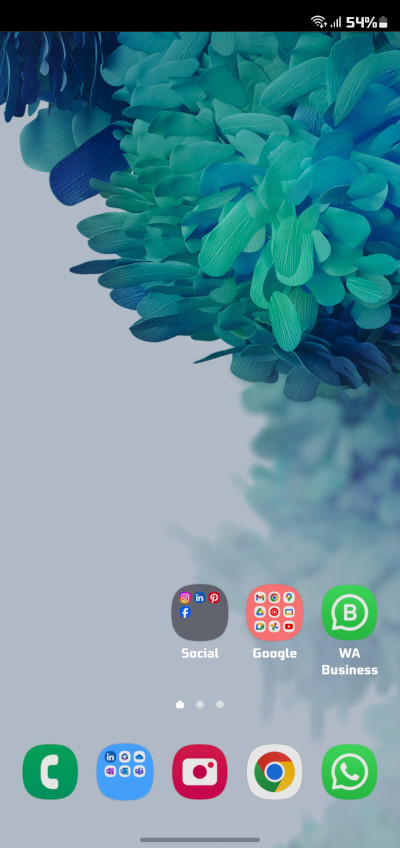
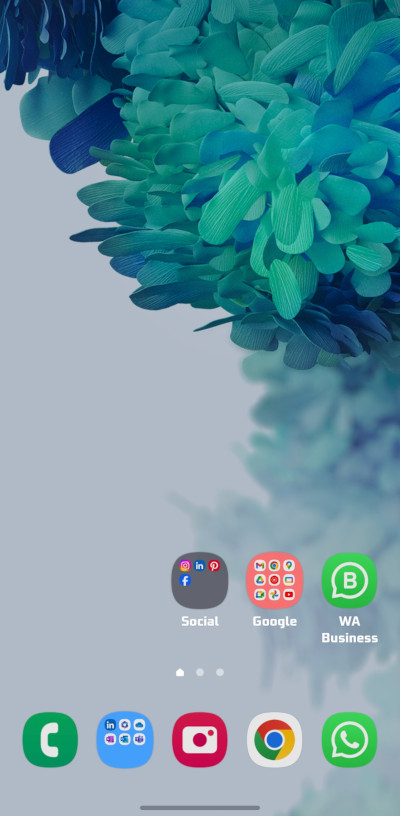
Criado statusbar

diff --git a/estilos/style.css b/estilos/style.css
@@ -35,13 +35,29 @@ section#telefone {
     background: url('../imagens/Frame_S20FE.png') no-repeat;
 }
 
+div#statusbar {
+    position: relative;
+    top: 15px;
+    left: 14px;
+    width: 282px;
+    height: 23px;   
+    
+}
+
+div > img {
+    height: 100%;
+    width: 100%;
+    border-radius: 19px 19px 0px 0px;
+
+}
+
 iframe#tela {
     position: relative;
     top: 15px;
     left: 14px;
     width: 282px;
-    height: 598px;
-    border-radius: 19px;
+    height: 575px;
+    border-radius: 0px 0px 19px 19px;
 }
 
 section#redes-sociais {

diff --git a/index.html b/index.html
@@ -10,6 +10,9 @@
 <body>
   <main>
     <section id="telefone">
+      <div name="statusbar" id="statusbar">
+        <img src="imagens/Statusbar-S20FE.jpg" alt="">
+      </div>
       <iframe src="home.html" name="tela" id="tela" frameborder="0">
         Seu navegador não é compatível com isso.
       </iframe>
